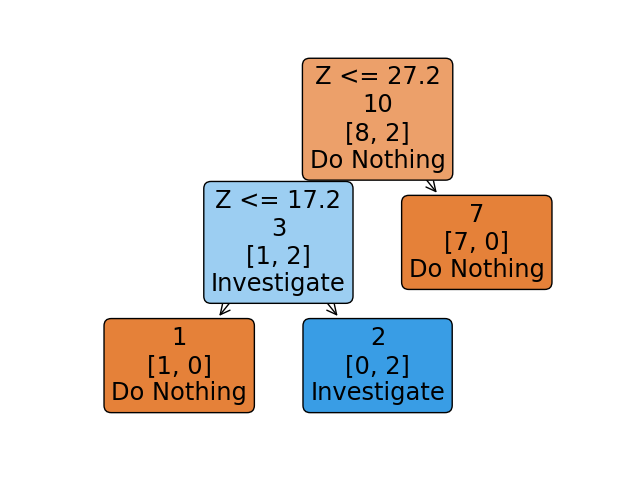
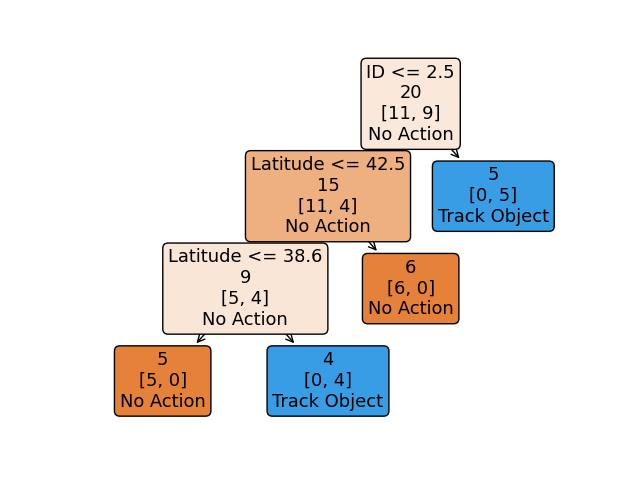
demo stuff

Changed region(s): [[0.1562, 0.0938, 0.875, 0.875]]

diff --git a/templates/gui/space.html b/templates/gui/space.html
@@ -3,7 +3,7 @@
 
 <div class="inner">
 <div style="float: left;">
-    <h3>Space Object:</h3>
+    <h3>Space Object</h3>
     {% for s in state %}
     <div class="stateVar">
         <b>{{ s.name }}</b>:&nbsp;<span id="state{{ loop.index0 }}" class="uk-label">{{ s.get_val_str() }}</span>
@@ -24,6 +24,4 @@
 {% endblock %}
 
 {% block info %}
-<!-- This is where I was experimenting with showing the tree image but it's not good -->
-<!-- <img src="{{ url_for('static', filename='images/tree_graph.png') }}" alt="Decision Tree graph">-->
 {% endblock %}

diff --git a/static/style.css b/static/style.css
@@ -43,7 +43,7 @@ body {
   justify-content: space-evenly;
   margin: auto;
   width: 80%;
-  border: 1px solid black;
+  border: 2px solid black;
   padding: 10px;
   background: var(--bg-color2);
   border-radius: 3%;
@@ -118,5 +118,6 @@ body {
 #img {
   width: 260px;
   height:195px;
+  border: 2px solid black;
   border-radius: 10%
 }

diff --git a/core/recommender.py b/core/recommender.py
@@ -6,15 +6,16 @@ from sklearn.tree import DecisionTreeClassifier, plot_tree, export_graphviz
 from sklearn.exceptions import NotFittedError
 import warnings
 
-plt.switch_backend('Agg')  # stops weird shit from happening
+plt.switch_backend('Agg')  # stop matplotlib ruining everything
 warnings.filterwarnings('ignore')  # sklearn is annoying with warnings
 
 # Space state parameters
-ID_LIST = ['US', 'RUS', 'EU']
+ID_LIST = ['US', 'RUS', 'EU', 'UNKNOWN']
 OBJECT_TYPE_LIST = ['DEBRIS', 'SATELLITE', 'UNKNOWN']
 STATE_KEYS = ['ID', 'Object type', 'Velocity deviation', 'Latitude', 'Longitude',
               'Missed pass count']
-ACTION_KEYS = ['No Action', 'Track Object']
+STATE_KEYS += ['Year first seen']
+ACTION_KEYS = ['No Action', 'Track Object', 'Alert']
 
 
 class StateVar:
@@ -52,13 +53,17 @@ def state2vec(state):
 
 def gen_space_state():
     """ Generate random space state """
+    s_id = StateVar('ID', rand.choice(ID_LIST), kind='enum', val_list=ID_LIST)
+    s_type_choice = 'UNKNOWN' if s_id.get_val_str() == 'UNKNOWN' else rand.choice(OBJECT_TYPE_LIST[:-1])
+    s_type = StateVar('Object type', s_type_choice, kind='enum', val_list=OBJECT_TYPE_LIST)
     s = [
-        StateVar('ID', rand.choice(ID_LIST), kind='enum', val_list=ID_LIST),
-        StateVar('Object type', rand.choice(OBJECT_TYPE_LIST), kind='enum', val_list=OBJECT_TYPE_LIST),
+        s_id,
+        s_type,
         StateVar('Velocity deviation', abs(rand.normal())),
         StateVar('Latitude', rand.uniform(35, 45)),
         StateVar('Longitude', rand.uniform(100, 120)),
         StateVar('Missed pass count', rand.choice([0, 1, 2], p=[0.6, 0.3, 0.1]), kind='int'),
+        StateVar('Year first seen', rand.randint(1980, 2020), kind='int'),
     ]
     return s
 
